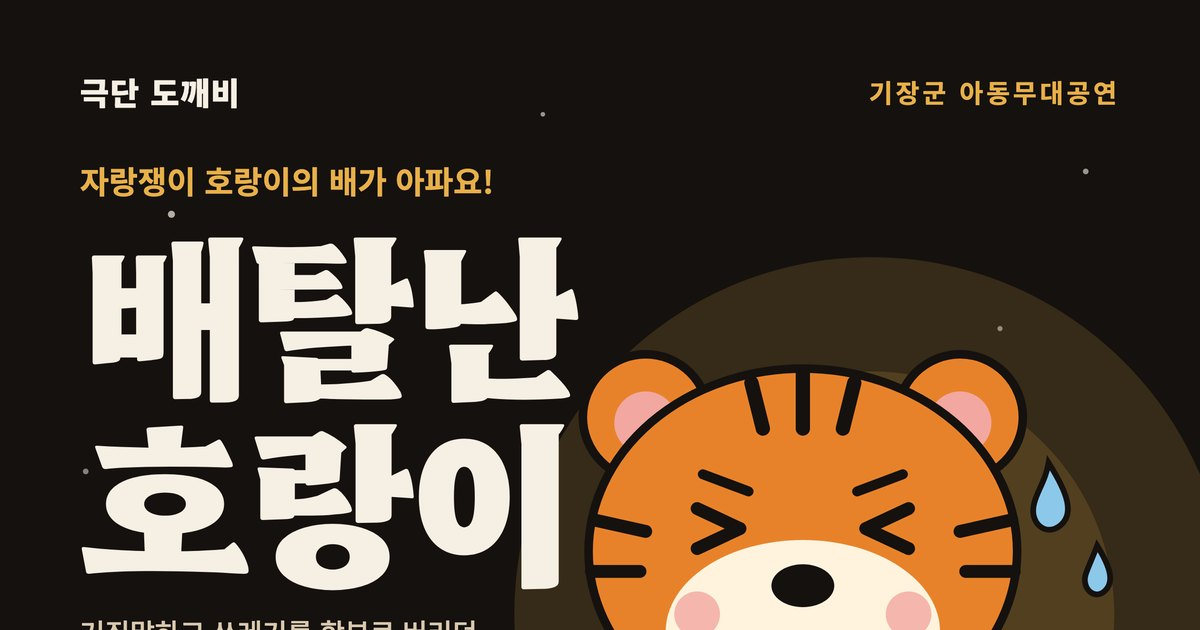
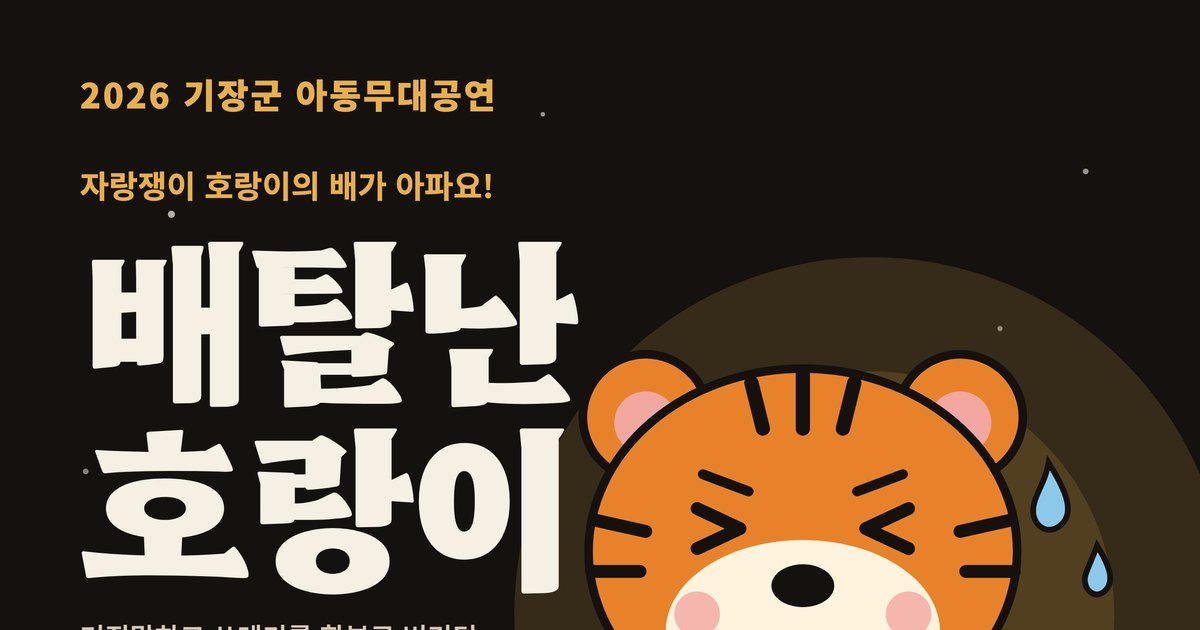
배탈난 호랑이: '2026 기장군 아동무대공연', 주최 기장군 · 주관 극단 도깨비 표시
- 포스터 위쪽을 '2026 기장군 아동무대공연' 한 줄로 (포스터 그림·공유 미리보기 새로 만듦)
- 첫 화면 배너: 2026 표기, 대상(4세 이상 · 무료 관람)·주최·주관 줄 추가
- 공연 안내: 공연 정보에 '주최 기장군 · 주관 극단 도깨비', 제목·설명·구조화 데이터에 2026 (주최 기장군을 sponsor로)
- 좌석 예약·내 예약·관리 화면의 공연 이름 앞 문구를 '2026 기장군 아동무대공연'으로

diff --git a/reserve/index.html b/reserve/index.html
@@ -3,15 +3,15 @@
 <head>
 <meta charset="utf-8">
 <meta name="viewport" content="width=device-width, initial-scale=1">
-<title>배탈난 호랑이 | 기장군 아동무대공연 · 안데르센극장 공연 안내 | 극단 도깨비</title>
-<meta name="description" content="기장군 아동무대공연 〈배탈난 호랑이〉 2026년 11월 24일(화)~26일(목) 오전 10시 30분, 안데르센극장(부산 기장군 장안읍 장안로 211). 줄거리·등장인물·관람 안내와 좌석 예약. 문의 010-5115-5406, 010-3837-8479">
+<title>배탈난 호랑이 | 2026 기장군 아동무대공연 · 안데르센극장 공연 안내 | 극단 도깨비</title>
+<meta name="description" content="2026 기장군 아동무대공연 〈배탈난 호랑이〉 2026년 11월 24일(화)~26일(목) 오전 10시 30분, 안데르센극장(부산 기장군 장안읍 장안로 211). 줄거리·등장인물·관람 안내와 좌석 예약. 문의 010-5115-5406, 010-3837-8479">
 <meta name="robots" content="index, follow">
 <link rel="canonical" href="https://dokkaebi1.github.io/reserve/">
 <meta property="og:type" content="website">
 <meta property="og:site_name" content="극단 도깨비">
 <meta property="og:locale" content="ko_KR">
-<meta property="og:title" content="배탈난 호랑이 | 기장군 아동무대공연 · 안데르센극장 공연 안내 | 극단 도깨비">
-<meta property="og:description" content="기장군 아동무대공연 〈배탈난 호랑이〉 2026년 11월 24일(화)~26일(목) 오전 10시 30분, 안데르센극장(부산 기장군 장안읍 장안로 211). 줄거리·등장인물·관람 안내와 좌석 예약. 문의 010-5115-5406, 010-3837-8479">
+<meta property="og:title" content="배탈난 호랑이 | 2026 기장군 아동무대공연 · 안데르센극장 공연 안내 | 극단 도깨비">
+<meta property="og:description" content="2026 기장군 아동무대공연 〈배탈난 호랑이〉 2026년 11월 24일(화)~26일(목) 오전 10시 30분, 안데르센극장(부산 기장군 장안읍 장안로 211). 줄거리·등장인물·관람 안내와 좌석 예약. 문의 010-5115-5406, 010-3837-8479">
 <meta property="og:url" content="https://dokkaebi1.github.io/reserve/">
 <meta property="og:image" content="https://dokkaebi1.github.io/assets/img/reserve-poster-og.jpg">
 <meta property="og:image:width" content="1200">
@@ -25,9 +25,9 @@
 <link rel="stylesheet" href="https://fonts.googleapis.com/css2?family=Hahmlet:wght@600..900&display=swap">
 <link rel="preconnect" href="https://cdn.jsdelivr.net" crossorigin>
 <link rel="stylesheet" href="https://cdn.jsdelivr.net/npm/pretendard@1.3.9/dist/web/variable/pretendardvariable-dynamic-subset.min.css">
-<link rel="stylesheet" href="../assets/css/reserve.css?v=1792846434">
+<link rel="stylesheet" href="../assets/css/reserve.css?v=1792847275">
 <meta name="dokkaebi-api" content="https://script.google.com/macros/s/AKfycbw1ukn5kiuJ3rC1IUlTakt7768htxE08COYk8GMvpOcfUWcSVZKUTsxLftt-JXtx4I/exec">
-<script type="application/ld+json">{"@context":"https://schema.org","@type":"TheaterEvent","name":"배탈난 호랑이 (기장군 아동무대공연)","description":"자랑쟁이 호랑이가 거짓말하고 쓰레기를 함부로 버리는 버릇을 고치는 이야기","organizer":{"@type":"PerformingGroup","name":"극단 도깨비","telephone":"010-5115-5406","url":"https://dokkaebi1.github.io/"},"location":{"@type":"PerformingArtsTheater","name":"안데르센극장","address":{"@type":"PostalAddress","streetAddress":"장안읍 장안로 211","addressLocality":"기장군","addressRegion":"부산광역시","addressCountry":"KR"}},"startDate":"2026-11-24T10:30:00+09:00","endDate":"2026-11-26T11:30:00+09:00","eventAttendanceMode":"https://schema.org/OfflineEventAttendanceMode","eventStatus":"https://schema.org/EventScheduled","url":"https://dokkaebi1.github.io/reserve/"}</script>
+<script type="application/ld+json">{"@context":"https://schema.org","@type":"TheaterEvent","name":"배탈난 호랑이 (2026 기장군 아동무대공연)","description":"자랑쟁이 호랑이가 거짓말하고 쓰레기를 함부로 버리는 버릇을 고치는 이야기","sponsor":{"@type":"GovernmentOrganization","name":"부산광역시 기장군"},"organizer":{"@type":"PerformingGroup","name":"극단 도깨비","telephone":"010-5115-5406","url":"https://dokkaebi1.github.io/"},"location":{"@type":"PerformingArtsTheater","name":"안데르센극장","address":{"@type":"PostalAddress","streetAddress":"장안읍 장안로 211","addressLocality":"기장군","addressRegion":"부산광역시","addressCountry":"KR"}},"startDate":"2026-11-24T10:30:00+09:00","endDate":"2026-11-26T11:30:00+09:00","eventAttendanceMode":"https://schema.org/OfflineEventAttendanceMode","eventStatus":"https://schema.org/EventScheduled","url":"https://dokkaebi1.github.io/reserve/"}</script>
 </head>
 <body class="rv-body">
 <a class="rv-skip" href="#main">본문 바로가기</a>
@@ -57,6 +57,7 @@
           <div><dt>일시</dt><dd>2026년 11월 24일(화) · 25일(수) · 26일(목)<small>매일 오전 10시 30분 (하루 1회 공연) · 세 번 모두 같은 공연이에요</small></dd></div>
           <div><dt>장소</dt><dd>안데르센극장<small>부산광역시 기장군 장안읍 장안로 211</small></dd></div>
           <div><dt>대상</dt><dd>4세 이상<small>관람료 무료</small></dd></div>
+          <div><dt>주최</dt><dd>기장군<small>주관 극단 도깨비</small></dd></div>
           <div><dt>장르</dt><dd>아동극 · 생활습관 교육극</dd></div>
           <div><dt>좌석</dt><dd>242석 지정석<small>좌석을 직접 골라 예약 · 휠체어석 3석</small></dd></div>
           <div><dt>문의</dt><dd><a href="tel:01051155406">010-5115-5406</a> · <a href="tel:01038378479">010-3837-8479</a><small>극단 도깨비 · 문의만 받아요 (예약은 홈페이지에서)</small></dd></div>
@@ -174,7 +175,7 @@
   <b>극단 도깨비</b> · 부산광역시 · 공연 문의 <a href="tel:01051155406">010-5115-5406</a> · <a href="tel:01038378479">010-3837-8479</a><br>
   <a href="admin.html">예약 관리(관리자)</a> · <a href="../privacy.html">개인정보 처리방침</a> · <a href="../index.html">홈페이지</a> · © 2026 극단 도깨비
 </div></footer>
-<script src="../assets/js/reserve-core.js?v=1792846434"></script>
-<script src="../assets/js/reserve-ui.js?v=1792846434"></script>
+<script src="../assets/js/reserve-core.js?v=1792847275"></script>
+<script src="../assets/js/reserve-ui.js?v=1792847275"></script>
 </body>
 </html>

diff --git a/reserve/seats.html b/reserve/seats.html
@@ -25,7 +25,7 @@
 <link rel="stylesheet" href="https://fonts.googleapis.com/css2?family=Hahmlet:wght@600..900&display=swap">
 <link rel="preconnect" href="https://cdn.jsdelivr.net" crossorigin>
 <link rel="stylesheet" href="https://cdn.jsdelivr.net/npm/pretendard@1.3.9/dist/web/variable/pretendardvariable-dynamic-subset.min.css">
-<link rel="stylesheet" href="../assets/css/reserve.css?v=1792846434">
+<link rel="stylesheet" href="../assets/css/reserve.css?v=1792847275">
 <meta name="dokkaebi-api" content="https://script.google.com/macros/s/AKfycbw1ukn5kiuJ3rC1IUlTakt7768htxE08COYk8GMvpOcfUWcSVZKUTsxLftt-JXtx4I/exec">
 </head>
 <body class="rv-body">
@@ -38,7 +38,7 @@
 <main id="main" class="rv-page">
   <section class="rv-wrap rv-seatshead" aria-labelledby="rv-title">
     <a class="rv-back" href="./">← 공연 안내 보기</a>
-    <span class="rv-eyebrow">기장군 아동무대공연</span>
+    <span class="rv-eyebrow">2026 기장군 아동무대공연 · 주최 기장군 · 주관 극단 도깨비</span>
     <h1 id="rv-title">〈배탈난 호랑이〉 좌석 예약</h1>
     <ul class="rv-chips"><li>11월 24일(화) · 25일(수) · 26일(목)</li><li>오전 10시 30분</li><li>안데르센극장</li></ul>
     <p class="rv-rule"><b>예약 오픈 11월 4일(수) 오전 10시</b> · 홈페이지에서만 예약해요 (전화 예약 불가) · <a href="guide.html">예약 방법 보기</a></p>
@@ -142,8 +142,8 @@
   <b>극단 도깨비</b> · 부산광역시 · 공연 문의 <a href="tel:01051155406">010-5115-5406</a> · <a href="tel:01038378479">010-3837-8479</a><br>
   <a href="admin.html">예약 관리(관리자)</a> · <a href="../privacy.html">개인정보 처리방침</a> · <a href="../index.html">홈페이지</a> · © 2026 극단 도깨비
 </div></footer>
-<script src="../assets/js/reserve-core.js?v=1792846434"></script>
-<script src="../assets/js/reserve-ui.js?v=1792846434"></script>
-<script src="../assets/js/reserve.js?v=1792846434"></script>
+<script src="../assets/js/reserve-core.js?v=1792847275"></script>
+<script src="../assets/js/reserve-ui.js?v=1792847275"></script>
+<script src="../assets/js/reserve.js?v=1792847275"></script>
 </body>
 </html>

diff --git a/reserve/admin.html b/reserve/admin.html
@@ -25,7 +25,7 @@
 <link rel="stylesheet" href="https://fonts.googleapis.com/css2?family=Hahmlet:wght@600..900&display=swap">
 <link rel="preconnect" href="https://cdn.jsdelivr.net" crossorigin>
 <link rel="stylesheet" href="https://cdn.jsdelivr.net/npm/pretendard@1.3.9/dist/web/variable/pretendardvariable-dynamic-subset.min.css">
-<link rel="stylesheet" href="../assets/css/reserve.css?v=1792846434">
+<link rel="stylesheet" href="../assets/css/reserve.css?v=1792847275">
 <meta name="dokkaebi-api" content="https://script.google.com/macros/s/AKfycbw1ukn5kiuJ3rC1IUlTakt7768htxE08COYk8GMvpOcfUWcSVZKUTsxLftt-JXtx4I/exec">
 <meta name="dokkaebi-rsv-admin" content="https://script.google.com/macros/s/AKfycbxntrHTCuYDwDsCEVNxN52vx72Vpj6Tsw_rMx494ZZPAl_u4_5FJa8EfrtKE-mWxvTY/exec?page=reserve">
 <meta name="referrer" content="no-referrer">
@@ -45,8 +45,8 @@
   <b>극단 도깨비</b> · 부산광역시 · 공연 문의 <a href="tel:01051155406">010-5115-5406</a> · <a href="tel:01038378479">010-3837-8479</a><br>
   <a href="admin.html">예약 관리(관리자)</a> · <a href="../privacy.html">개인정보 처리방침</a> · <a href="../index.html">홈페이지</a> · © 2026 극단 도깨비
 </div></footer>
-<script src="../assets/js/reserve-core.js?v=1792846434"></script>
-<script src="../assets/js/reserve-ui.js?v=1792846434"></script>
-<script src="../assets/js/reserve-admin.js?v=1792846434"></script>
+<script src="../assets/js/reserve-core.js?v=1792847275"></script>
+<script src="../assets/js/reserve-ui.js?v=1792847275"></script>
+<script src="../assets/js/reserve-admin.js?v=1792847275"></script>
 </body>
 </html>

diff --git a/reserve/my.html b/reserve/my.html
@@ -25,7 +25,7 @@
 <link rel="stylesheet" href="https://fonts.googleapis.com/css2?family=Hahmlet:wght@600..900&display=swap">
 <link rel="preconnect" href="https://cdn.jsdelivr.net" crossorigin>
 <link rel="stylesheet" href="https://cdn.jsdelivr.net/npm/pretendard@1.3.9/dist/web/variable/pretendardvariable-dynamic-subset.min.css">
-<link rel="stylesheet" href="../assets/css/reserve.css?v=1792846434">
+<link rel="stylesheet" href="../assets/css/reserve.css?v=1792847275">
 <meta name="dokkaebi-api" content="https://script.google.com/macros/s/AKfycbw1ukn5kiuJ3rC1IUlTakt7768htxE08COYk8GMvpOcfUWcSVZKUTsxLftt-JXtx4I/exec">
 </head>
 <body class="rv-body">
@@ -43,8 +43,8 @@
   <b>극단 도깨비</b> · 부산광역시 · 공연 문의 <a href="tel:01051155406">010-5115-5406</a> · <a href="tel:01038378479">010-3837-8479</a><br>
   <a href="admin.html">예약 관리(관리자)</a> · <a href="../privacy.html">개인정보 처리방침</a> · <a href="../index.html">홈페이지</a> · © 2026 극단 도깨비
 </div></footer>
-<script src="../assets/js/reserve-core.js?v=1792846434"></script>
-<script src="../assets/js/reserve-ui.js?v=1792846434"></script>
-<script src="../assets/js/reserve-my.js?v=1792846434"></script>
+<script src="../assets/js/reserve-core.js?v=1792847275"></script>
+<script src="../assets/js/reserve-ui.js?v=1792847275"></script>
+<script src="../assets/js/reserve-my.js?v=1792847275"></script>
 </body>
 </html>

diff --git a/index.html b/index.html
@@ -265,9 +265,9 @@
     <a class="promo__poster" href="reserve/" tabindex="-1" aria-hidden="true"><img src="assets/img/reserve-poster.jpg" alt="" width="1200" height="1697" loading="lazy"></a>
     <div class="promo__body">
     <span class="promo__tag">공연 예약</span>
-    <p class="promo__series">기장군 아동무대공연</p>
+    <p class="promo__series">2026 기장군 아동무대공연</p>
     <h2 id="promo-title">배탈난 호랑이</h2>
-    <dl class="promo__facts"><div><dt>날짜</dt><dd>11월 24일(화) · 25일(수) · 26일(목)</dd></div><div><dt>시간</dt><dd>오전 10시 30분</dd></div><div><dt>장소</dt><dd>안데르센극장 (기장군 장안읍 장안로 211)</dd></div></dl>
+    <dl class="promo__facts"><div><dt>날짜</dt><dd>11월 24일(화) · 25일(수) · 26일(목)</dd></div><div><dt>시간</dt><dd>오전 10시 30분</dd></div><div><dt>장소</dt><dd>안데르센극장 (기장군 장안읍 장안로 211)</dd></div><div><dt>대상</dt><dd>4세 이상 · 무료 관람</dd></div><div><dt>주최</dt><dd>기장군</dd></div><div><dt>주관</dt><dd>극단 도깨비</dd></div></dl>
     <p class="promo__open">예약 오픈 11월 4일(수) 오전 10시 · 홈페이지에서만 예약 (전화 예약 불가)</p>
     <div class="promo__go">
       <img class="promo__qr" src="assets/img/reserve-qr.svg" alt="좌석 예약 페이지 QR 코드" width="132" height="132">

diff --git a/reserve/guide.html b/reserve/guide.html
@@ -25,7 +25,7 @@
 <link rel="stylesheet" href="https://fonts.googleapis.com/css2?family=Hahmlet:wght@600..900&display=swap">
 <link rel="preconnect" href="https://cdn.jsdelivr.net" crossorigin>
 <link rel="stylesheet" href="https://cdn.jsdelivr.net/npm/pretendard@1.3.9/dist/web/variable/pretendardvariable-dynamic-subset.min.css">
-<link rel="stylesheet" href="../assets/css/reserve.css?v=1792846434">
+<link rel="stylesheet" href="../assets/css/reserve.css?v=1792847275">
 <meta name="dokkaebi-api" content="https://script.google.com/macros/s/AKfycbw1ukn5kiuJ3rC1IUlTakt7768htxE08COYk8GMvpOcfUWcSVZKUTsxLftt-JXtx4I/exec">
 </head>
 <body class="rv-body">
@@ -119,7 +119,7 @@
   <b>극단 도깨비</b> · 부산광역시 · 공연 문의 <a href="tel:01051155406">010-5115-5406</a> · <a href="tel:01038378479">010-3837-8479</a><br>
   <a href="admin.html">예약 관리(관리자)</a> · <a href="../privacy.html">개인정보 처리방침</a> · <a href="../index.html">홈페이지</a> · © 2026 극단 도깨비
 </div></footer>
-<script src="../assets/js/reserve-core.js?v=1792846434"></script>
-<script src="../assets/js/reserve-ui.js?v=1792846434"></script>
+<script src="../assets/js/reserve-core.js?v=1792847275"></script>
+<script src="../assets/js/reserve-ui.js?v=1792847275"></script>
 </body>
 </html>

diff --git a/assets/js/reserve-core.js b/assets/js/reserve-core.js
@@ -9,7 +9,7 @@ var RSV = (function () {
   /* ---------- 공연 ---------- */
   var EVENT = {
     title: '배탈난 호랑이',
-    series: '기장군 아동무대공연',
+    series: '2026 기장군 아동무대공연',
     genre: '아동극 · 생활습관 교육극',
     venue: '안데르센극장',
     address: '부산광역시 기장군 장안읍 장안로 211',
